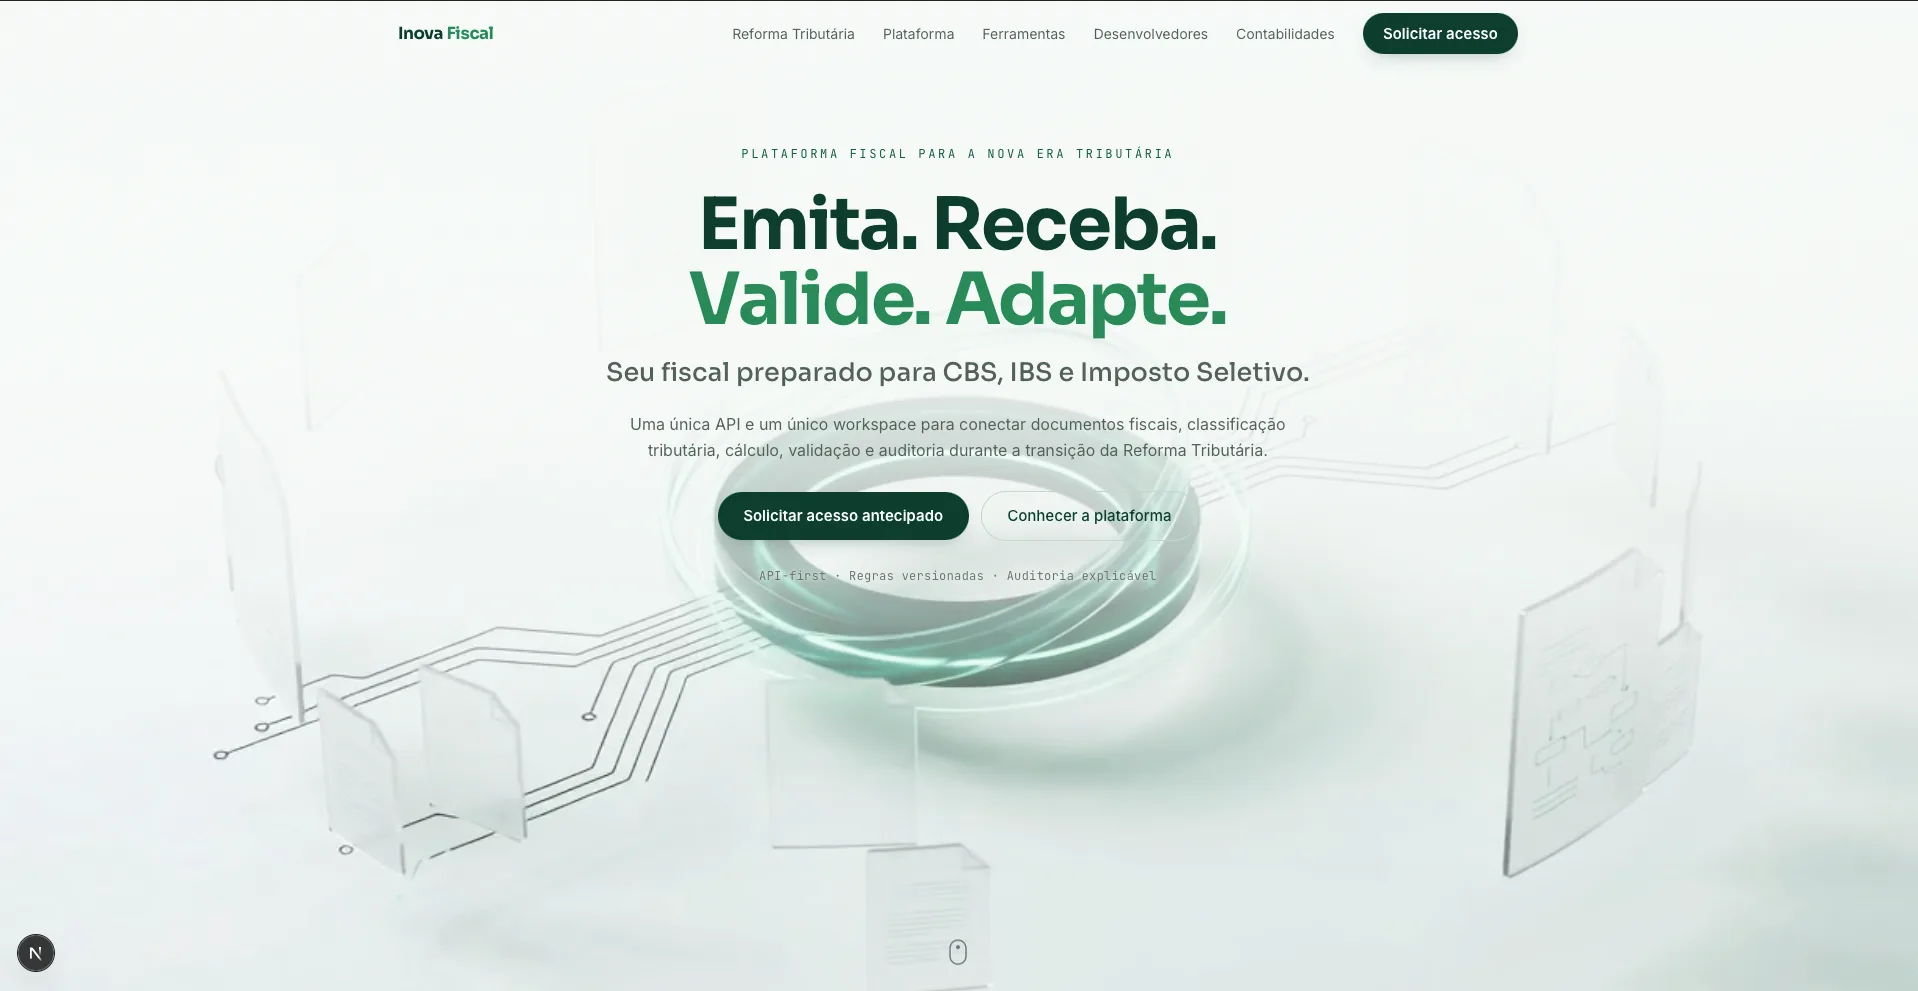
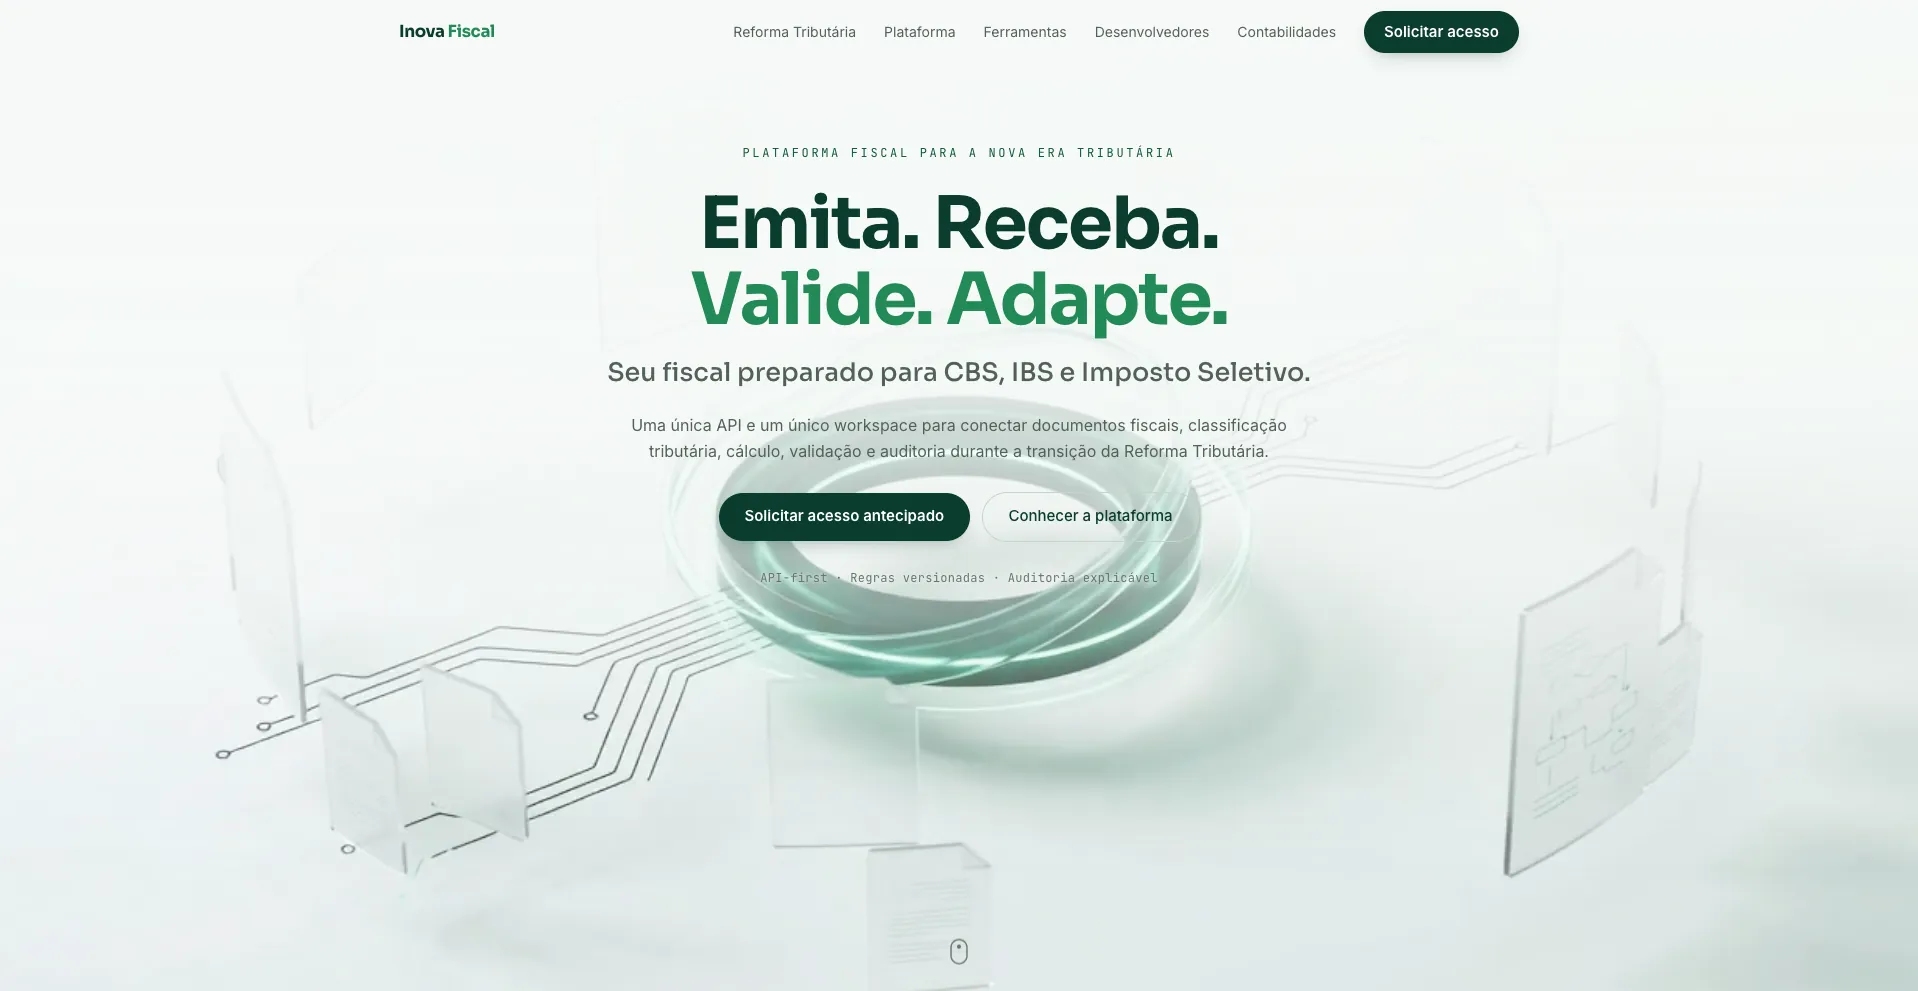
feat: ampliar capturas dos cases e Guilherme no time
Clique numa captura do Showcase abre o Lightbox (<dialog> nativo): Esc,
clique fora ou ✕ fecham, o foco volta ao gatilho e o Lenis para enquanto
está aberto. No celular a captura abre em 200vw com rolagem horizontal.

Adiciona Guilherme Bortolini da Costa (Executivo Comercial) ao Estúdio; a
grade passa a 2 colunas no tablet e 4 no desktop.

Refaz a captura da plataforma tributária sem o indicador de dev do Next.

diff --git a/src/index.css b/src/index.css
@@ -474,6 +474,132 @@
   }
 }
 
+@layer components {
+  /* Ampliação dos cases (Lightbox.tsx). Fundo night, sem blur nem brilho:
+     a captura é o assunto. */
+  .lightbox {
+    position: fixed;
+    inset: 0;
+    width: 100%;
+    max-width: none;
+    height: 100%;
+    max-height: none;
+    margin: 0;
+    padding: 0;
+    border: 0;
+    background: transparent;
+    color: var(--color-paper-on-night);
+    overflow: hidden;
+  }
+  .lightbox::backdrop {
+    background: oklch(0.17 0.02 290 / 0.92);
+  }
+  .lightbox[open] {
+    display: flex;
+    align-items: center;
+    justify-content: center;
+    animation: lightbox-in 220ms var(--ease-quart);
+  }
+  .lightbox[open]::backdrop {
+    animation: lightbox-fade 220ms ease;
+  }
+  .lightbox-body {
+    display: flex;
+    min-width: 0;
+    width: min(94vw, 1600px);
+    flex-direction: column;
+    gap: 0.75rem;
+  }
+  .lightbox-scroller {
+    min-width: 0;
+    overflow-x: auto;
+    overscroll-behavior: contain;
+    border: 1px solid var(--color-night-line);
+    border-radius: 8px;
+    background: var(--color-night);
+  }
+  .lightbox-image {
+    display: block;
+    width: 100%;
+    height: auto;
+    max-height: 84vh;
+    object-fit: contain;
+    cursor: zoom-out;
+  }
+  /* No celular a captura inteira na largura fica ilegível: ela abre ampliada
+     e o scroller rola na horizontal. */
+  @media (max-width: 639px) {
+    .lightbox-image {
+      width: 200vw;
+      max-width: none;
+      max-height: none;
+      cursor: auto;
+    }
+  }
+  .lightbox-close {
+    position: absolute;
+    top: max(0.75rem, env(safe-area-inset-top));
+    right: 0.75rem;
+    display: inline-flex;
+    width: 44px;
+    height: 44px;
+    align-items: center;
+    justify-content: center;
+    border: 1px solid var(--color-night-line);
+    border-radius: 999px;
+    background: var(--color-night-2);
+    color: var(--color-paper-on-night);
+    transition: border-color 200ms ease;
+  }
+  .lightbox-close:hover {
+    border-color: var(--color-signal);
+  }
+  .case-zoom {
+    position: relative;
+    display: block;
+    width: 100%;
+    height: 100%;
+    cursor: zoom-in;
+  }
+  .case-zoom-hint {
+    position: absolute;
+    right: 0.6rem;
+    bottom: 0.6rem;
+    display: inline-flex;
+    width: 34px;
+    height: 34px;
+    align-items: center;
+    justify-content: center;
+    border: 1px solid var(--color-night-line);
+    border-radius: 999px;
+    background: var(--color-night);
+    color: var(--color-paper-on-night);
+    opacity: 0;
+    transition: opacity 200ms ease;
+  }
+  .case-zoom:hover .case-zoom-hint,
+  .case-zoom:focus-visible .case-zoom-hint {
+    opacity: 1;
+  }
+  @media (hover: none) {
+    .case-zoom-hint {
+      opacity: 0.85;
+    }
+  }
+}
+
+@keyframes lightbox-in {
+  from {
+    opacity: 0;
+    transform: scale(0.98);
+  }
+}
+@keyframes lightbox-fade {
+  from {
+    opacity: 0;
+  }
+}
+
 @media (prefers-reduced-motion: reduce) {
   html {
     scroll-behavior: auto;

diff --git a/src/components/Lightbox.tsx b/src/components/Lightbox.tsx
@@ -1,0 +1,97 @@
+import { useEffect, useRef } from "react";
+import { useLenis } from "lenis/react";
+import { X } from "lucide-react";
+import type { MediaCaption } from "./MediaFrame";
+
+type LightboxProps = {
+  open: boolean;
+  src: string;
+  alt: string;
+  width?: number;
+  height?: number;
+  caption?: MediaCaption;
+  onClose: () => void;
+};
+
+/* Ampliação de uma captura de case. <dialog> nativo em showModal: top layer
+   acima do pin do Showcase, foco preso, Esc fecha e o foco volta ao gatilho.
+   O Lenis para enquanto está aberto — senão a roda rola a página por baixo. */
+export default function Lightbox({
+  open,
+  src,
+  alt,
+  width,
+  height,
+  caption,
+  onClose,
+}: LightboxProps) {
+  const dialog = useRef<HTMLDialogElement>(null);
+  const lenis = useLenis();
+
+  useEffect(() => {
+    const el = dialog.current;
+    if (!el) return;
+    if (open && !el.open) {
+      el.showModal();
+      lenis?.stop();
+    } else if (!open && el.open) {
+      el.close();
+    }
+  }, [open, lenis]);
+
+  useEffect(() => {
+    if (!open) return;
+    return () => lenis?.start();
+  }, [open, lenis]);
+
+  return (
+    <dialog
+      ref={dialog}
+      aria-label={alt}
+      data-lenis-prevent
+      className="lightbox"
+      onClose={onClose}
+      onClick={(event) => {
+        // Clique fora da imagem (no fundo ou nas margens) fecha.
+        if (!(event.target as HTMLElement).closest("img, button, .lightbox-caption")) onClose();
+      }}
+    >
+      {open && (
+        <div className="lightbox-body">
+          <div className="lightbox-scroller">
+            <img
+              src={src}
+              alt={alt}
+              width={width}
+              height={height}
+              className="lightbox-image"
+              decoding="async"
+            />
+          </div>
+          {caption && (
+            <div className="lightbox-caption mono flex min-w-0 items-center justify-between gap-3 text-[0.68rem] text-paper-on-night-soft sm:text-[0.74rem]">
+              <p className="min-w-0 truncate">
+                <span className="font-medium text-paper-on-night">{caption.name}</span>
+                {caption.detail && <span> · {caption.detail}</span>}
+              </p>
+              <span className="shrink-0 sm:hidden">arraste para ver →</span>
+              {caption.type && (
+                <span className="hidden shrink-0 font-medium text-signal-bright sm:inline">
+                  {caption.type}
+                </span>
+              )}
+            </div>
+          )}
+        </div>
+      )}
+      <button
+        type="button"
+        onClick={onClose}
+        aria-label="Fechar imagem ampliada"
+        className="lightbox-close"
+      >
+        <X aria-hidden size={20} strokeWidth={1.75} />
+      </button>
+    </dialog>
+  );
+}

diff --git a/src/components/MediaFrame.tsx b/src/components/MediaFrame.tsx
@@ -1,5 +1,7 @@
-import type { CSSProperties, ReactNode } from "react";
+import { useState, type CSSProperties, type ReactNode } from "react";
+import { Maximize2 } from "lucide-react";
 import { reduceMotion } from "../lib/motion";
+import Lightbox from "./Lightbox";
 
 export type MediaCaption = {
   name: string;
@@ -27,6 +29,8 @@ type MediaFrameProps = {
   angle?: number;
   className?: string;
   onNight?: boolean;
+  /* Clique na imagem abre a captura ampliada (Lightbox). Só para `src`. */
+  expandable?: boolean;
   children?: ReactNode;
 };
 
@@ -139,9 +143,12 @@ export default function MediaFrame({
   angle = 1,
   className = "",
   onNight = false,
+  expandable = false,
   children,
 }: MediaFrameProps) {
   const reduce = reduceMotion();
+  const [expanded, setExpanded] = useState(false);
+  const zoomable = expandable && !children && !videoSrc && !!src;
   const style = ratio
     ? ({ "--frame-ratio": ratio } as CSSProperties)
     : undefined;
@@ -191,10 +198,38 @@ export default function MediaFrame({
             className="registration-mark"
           />
         ))}
-        <div className="h-full w-full overflow-hidden rounded-[7px]">{media}</div>
+        <div className="h-full w-full overflow-hidden rounded-[7px]">
+          {zoomable ? (
+            <button
+              type="button"
+              className="case-zoom"
+              aria-label={`Ampliar imagem: ${title}`}
+              aria-haspopup="dialog"
+              onClick={() => setExpanded(true)}
+            >
+              {media}
+              <span aria-hidden className="case-zoom-hint">
+                <Maximize2 size={15} strokeWidth={1.75} />
+              </span>
+            </button>
+          ) : (
+            media
+          )}
+        </div>
       </div>
       {caption && captionPosition === "bottom" && (
         <Caption caption={caption} onNight={onNight} nameAs={captionNameAs} />
+      )}
+      {zoomable && src && (
+        <Lightbox
+          open={expanded}
+          src={src}
+          alt={title}
+          width={width}
+          height={height}
+          caption={caption}
+          onClose={() => setExpanded(false)}
+        />
       )}
     </figure>
   );

diff --git a/src/sections/About.tsx b/src/sections/About.tsx
@@ -42,6 +42,15 @@ const TEAM: Member[] = [
     bio: "Mantém deploy, infraestrutura e suporte funcionando para o sistema continuar confiável depois da entrega.",
     skills: ["DevOps", "Docker", "Cloud", "Suporte"],
   },
+  {
+    name: "Guilherme Bortolini da Costa",
+    role: "Executivo Comercial",
+    photo: "/brand/team-comercial.webp",
+    photoSize: [720, 1279] as const,
+    objectPosition: "50% 40%",
+    bio: "Faz a primeira conversa: entende a operação, transforma o problema em escopo e proposta clara e acompanha o cliente até o projeto começar.",
+    skills: ["Vendas", "Propostas", "Negociação", "Clientes"],
+  },
 ];
 
 export default function About() {
@@ -75,7 +84,7 @@ export default function About() {
 
         <div
           data-signal-anchor="about-signal"
-          className="mt-12 mx-auto grid max-w-[960px] gap-x-6 gap-y-12 md:grid-cols-3"
+          className="mt-12 grid gap-x-6 gap-y-12 sm:grid-cols-2 lg:grid-cols-4"
         >
           {TEAM.map((member) => (
             <article key={member.name} data-reveal className="min-w-0">

diff --git a/src/sections/Showcase.tsx b/src/sections/Showcase.tsx
@@ -201,6 +201,7 @@ export default function Showcase() {
               height={item.height}
               fit="contain"
               ratio="1918 / 991"
+              expandable
             />
           ))}
         </div>
